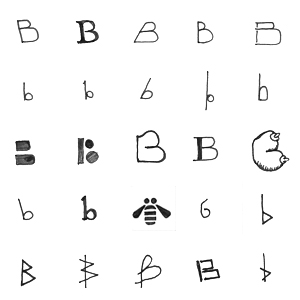
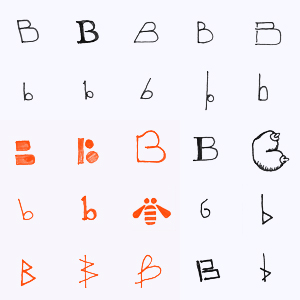
added colour, re-organised files
added more visual sets and coloured all of the sets.

diff --git a/index.html b/index.html
@@ -8,38 +8,44 @@
 		</script>
 		<script type="text/javascript">
 		
-		$(document).ready(function() {
+		$(document).ready(function(){
 			rollDrawer();
 		});
-				
+		
 		$(document).keydown(function() {
 			rollDrawer();
 		});
-				
+		
+		var myTimer = window.setInterval(rollDrawer, 10000);
+		
 		function rollDrawer() {
 			
-			var  drawer = new Array ("a","b");				
-			var selectDrawer = drawer[Math.floor(Math.random()*2)];
-			document.title = "drawer-"+selectDrawer;
-			$('#mylist').empty();
-						
-			for(i = 0; i<150;i++){
-					var randf =Math.round(Math.random()*(8-1)+101);
-				
-				$('<img />')
-				.attr('src', function(){return "images/"+selectDrawer+randf+".jpg"})
-				.appendTo('#mylist')
-			};
-		};
 			
+			var  drawer = new Array ("b","c","d","e","f","g","h","i","j","k","l","m","n","o");				
+			var selectDrawer = drawer[Math.floor(Math.random()*14)];
+			document.title = "drawer-"+selectDrawer;
+			
+			$('#spriteTest').empty();	
+			for(i = 0; i<150;i++){	
+				var panHori = Math.floor(Math.random()*10)*60;		
+				var panVert = Math.floor(Math.random()*10)*60;				
+				$('<div/>')
+			
+				.attr('style',"display:inline-block; vertical-align:top;  height:60px; width:60px;  background-image:url(images/"+selectDrawer+"-drawer.jpg); background-position: "+panHori+"px "+panVert+"px;")
+				.appendTo('#spriteTest')
+				
+				
+        }
+		window.clearInterval(myTimer);
+		myTimer = window.setInterval(rollDrawer, 10000);
+		};
 		</script>
     </head>
     
    
     <body style="background-image:url(images/bg_tile_02.jpg);">
-        <div id="mylist" style="width:900px; margin-left:auto; margin-right:auto; margin-top:60px; padding:0px;">
-                     
-           
+        <div id="spriteTest" >
 		</div>
     </body>
 </html>
+
